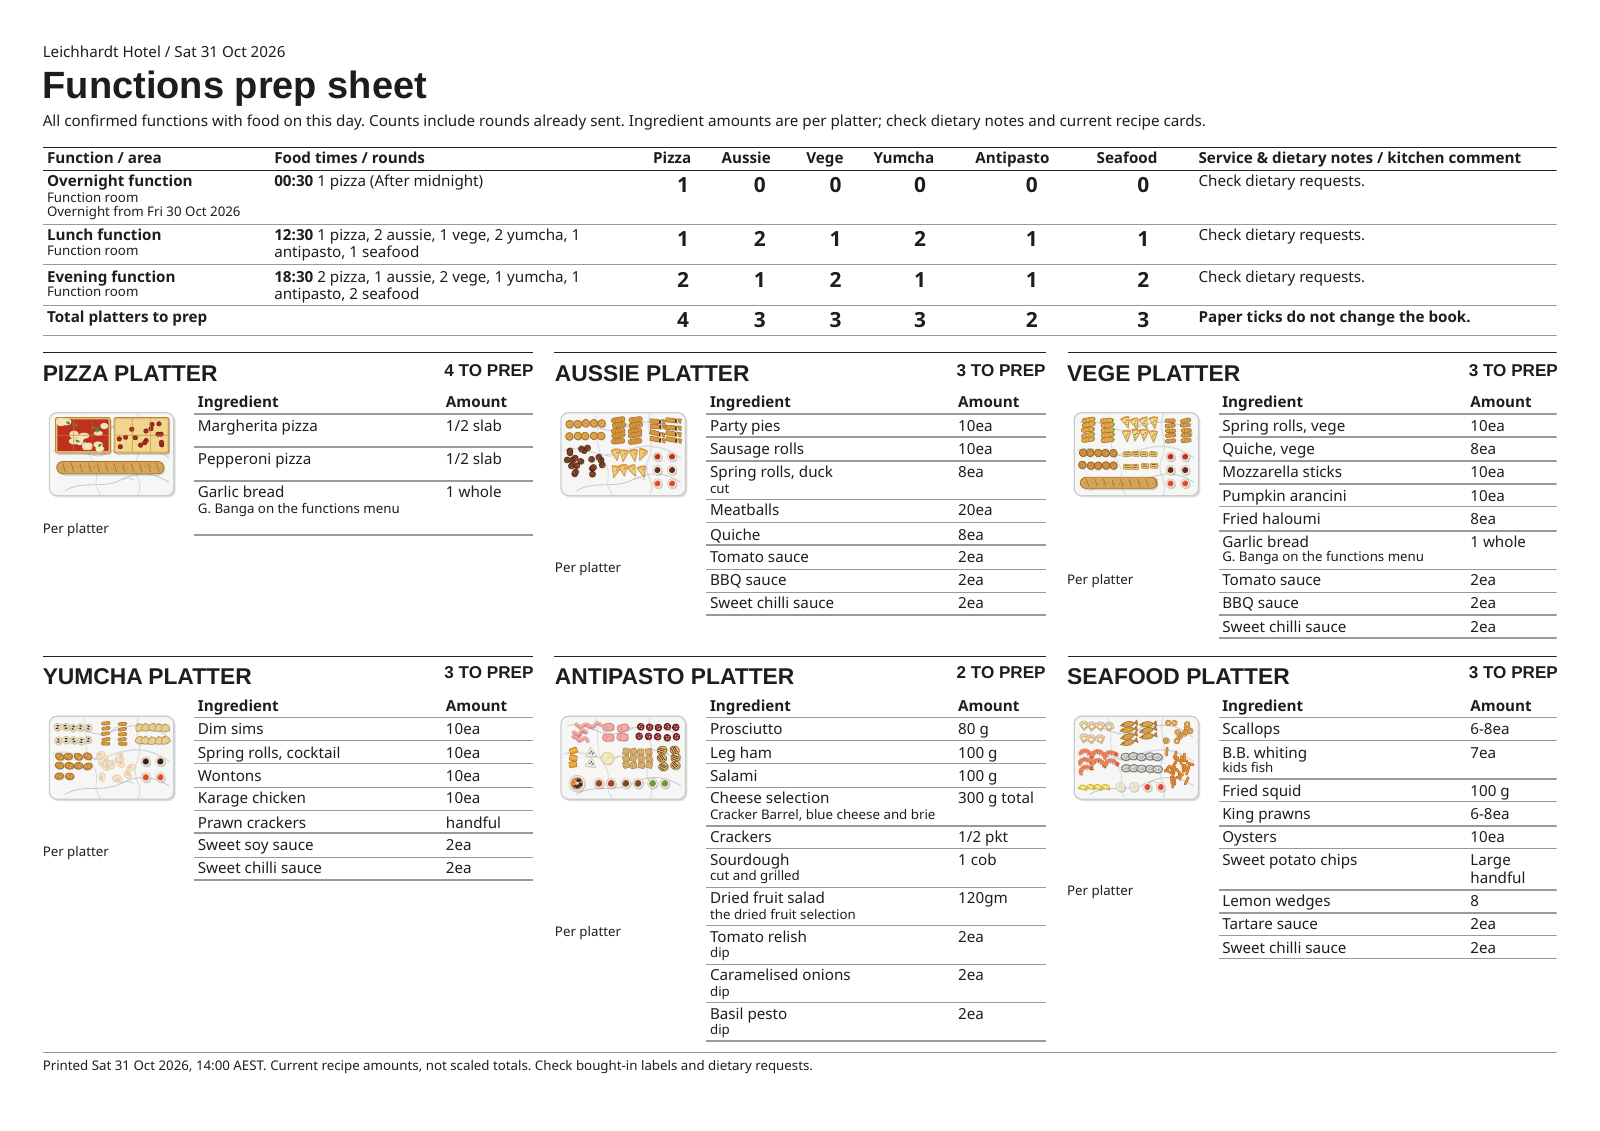
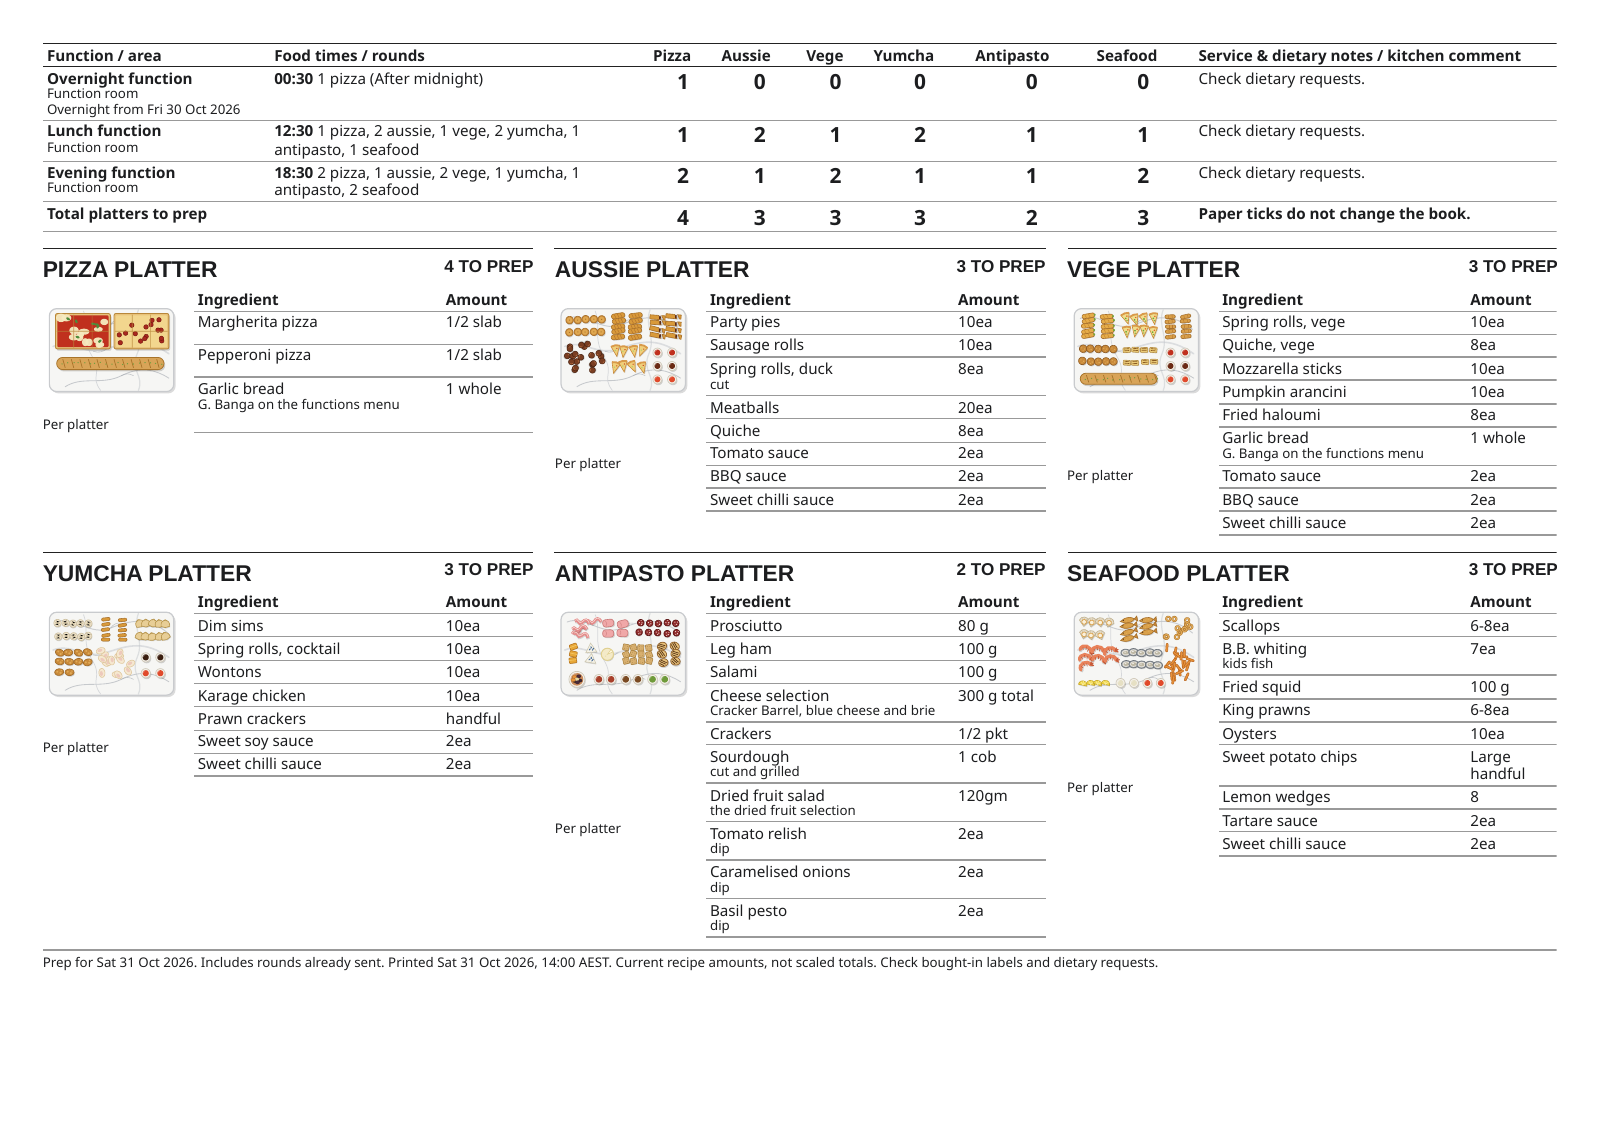
Remove the prep sheet header and keep its date in the footer

diff --git a/js/functions.js b/js/functions.js
@@ -740,8 +740,7 @@
       });
       counts.push(byRecipe);
     });
-    var out = '<article class="fn-prep-paper"><header><p>Leichhardt Hotel / ' + esc(printDate(opts.day)) + '</p><h1>Functions prep sheet</h1>' +
-      '<p>All confirmed functions with food on this day. Counts include rounds already sent. Ingredient amounts are per platter; check dietary notes and current recipe cards.</p></header>';
+    var out = '<article class="fn-prep-paper">';
     if (opts.source) out += '<p class="fn-prep-warning">' + esc(opts.source) + '</p>';
     out += '<table class="fn-prep-overview"><thead><tr><th scope="col">Function / area</th><th scope="col">Food times / rounds</th>' + cards.map(function (c) { return '<th scope="col">' + esc(short(c.name)) + '</th>'; }).join('') + '<th scope="col">Service &amp; dietary notes / kitchen comment</th></tr></thead><tbody>';
     list.forEach(function (f, i) {
@@ -768,7 +767,7 @@
           return '<tr><td>' + esc(ing.name) + (ing.note ? '<small>' + esc(ing.note) + '</small>' : '') + '</td><td>' + esc(ing.q || 'To come') + '</td></tr>';
         }).join('') + '</tbody></table>' : '<p>Recipe missing from the book. Check before prep.</p>') + '</section>';
     }).join('');
-    return out + '</div><footer>Printed ' + esc(printStamp(printed)) + '. Current recipe amounts, not scaled totals. Check bought-in labels and dietary requests.</footer></article>';
+    return out + '</div><footer>Prep for ' + esc(printDate(opts.day)) + '. Includes rounds already sent. Printed ' + esc(printStamp(printed)) + '. Current recipe amounts, not scaled totals. Check bought-in labels and dietary requests.</footer></article>';
   }
   function printSheet(f, opts, printed) {
     var R = f.rounds || [], L = f.lines || [], draft = f.status !== 'confirmed' || opts.unsaved;

diff --git a/tests/function-prep-print.test.js b/tests/function-prep-print.test.js
@@ -46,6 +46,7 @@ async function pdf(p, filename) {
     const before = await p.evaluate(() => [window.__fake.bill.length, window.__fake.writes.length, JSON.stringify(window.__fake.dump())]);
     await print(p, today);
     let content = await p.$eval('#fn-print', el => el.textContent);
+    ok(!(await p.$('.fn-prep-paper header, .fn-prep-paper h1')) && /Prep for/.test(content), 'no title or introductory header; the selected prep date stays in the footer');
     const rows = await p.$$eval('.fn-prep-overview tbody tr', els => els.map(el => el.textContent));
     ok(rows.length === 3 && /Overnight function/.test(rows[0]) && /Lunch function/.test(rows[1]) && /Evening function/.test(rows[2]), 'one overview includes every confirmed function in food-time order, even lunch already finished');
     ok(!/Tomorrow function|Cancelled function|Draft function|23:30/.test(content), 'only this day prints: no drafts, cancellations, tomorrow or yesterday rounds');

diff --git a/css/app.css b/css/app.css
@@ -2481,8 +2481,6 @@ input:is([type="date"], [type="time"]):disabled, input:is([type="date"], [type="
 @media print {
   body.fn-printing #fn-print.fn-prep-print { page: fn-prep-sheet; padding: 0; font: 8pt/1.15 var(--body); }
   #fn-print .fn-prep-paper { overflow-wrap: anywhere; }
-  #fn-print .fn-prep-paper h1 { font-size: 20pt; margin: 1mm 0; }
-  #fn-print .fn-prep-paper header { margin-bottom: 3mm; }
   #fn-print .fn-prep-paper table { width: 100%; border-collapse: collapse; font-size: inherit; }
   #fn-print .fn-prep-paper th, #fn-print .fn-prep-paper td { padding: 0.4mm 0.8mm; border-bottom: 0.4pt solid #999; text-align: left; vertical-align: top; }
   #fn-print .fn-prep-paper thead { display: table-header-group; }

diff --git a/README.md b/README.md
@@ -640,7 +640,7 @@ Asked for by the head chef: the book lays out and labels the plate by itself, an
 
 - **Quick cancellation and access (25 Oct 2026).** A confirmed function has Cancel function on the kitchen Functions page, its sheet and the managers' list/form. It acts on the saved booking with one click, without silently saving form edits. Sous chefs, the head chef, function managers and the verified admin can cancel. Editing and booking contacts still require the existing Functions tick. Undo is the same person's latest cancellation for two minutes, with no intervening change. The latest version is read on the tap, and cancellation, immutable history, prep removal and order corrections save together. Failed reads/saves do not announce success. Admin People now calls the existing checkbox Create/edit functions: tick it beside a person and save; their current role is kept. No named person is automatically granted access by a release. See `docs/function-cancellation.md` and `tests/function-cancel.test.js`.
 
-- **Print prep sheet (31 Oct 2026).** Functions has a Print prep sheet button for Today and each upcoming date. Service View offers today's copy too. One combined A4 landscape cheat sheet shows all confirmed functions for that day, their food times, platter quantities, dietary notes and daily totals. Every platter card follows once with its drawing and per-platter ingredient table. Overnight counts include only that day's rounds. The normal six-platter, three-function example fits one page; long material continues without clipping. No extra reads or writes. See `docs/function-printing.md`.
+- **Print prep sheet (31 Oct 2026).** Functions has a Print prep sheet button for Today and each upcoming date. Service View offers today's copy too. One combined A4 landscape cheat sheet, with no title header and the date in its footer, shows all confirmed functions for that day, their food times, platter quantities, dietary notes and daily totals. Every platter card follows once with its drawing and per-platter ingredient table. Overnight counts include only that day's rounds. The normal six-platter, three-function example fits one page; long material continues without clipping. No extra reads or writes. See `docs/function-printing.md`.
 - **Print function / Print run sheet (25 Oct 2026, Layout 2 approved).** Everyone with the kitchen PIN can print a function from its kitchen sheet, including the popup, or print today's confirmed functions from Service View. The Create Functions form and confirmation review also offer Print function for the people who already have permission to open them. It prints the current input without saving or confirming; unsaved copies say Draft / not saved. A4 portrait, large round times, each round's platter quantities, sent ticks, total booked, service and dietary notes, kitchen comment, version and Queensland print time. Every round is included, even if sent or outside the next-hour screen. Overnight functions retain the next-day labels. Drafts and cancelled functions stay out of the day run sheet; an individual cancelled copy says Do not send. Long bookings continue onto more pages at a readable size. Contacts stay off the paper. Printing uses only the records already loaded, with a saved-copy warning if offline, and adds no database reads or writes. Cancelling the dialog keeps the current page and form. See `docs/function-printing.md` and `tests/function-print.test.js`.
 A function manager enters a function once; the kitchen sees exactly what goes out and when.
 

diff --git a/docs/function-printing.md b/docs/function-printing.md
@@ -33,7 +33,7 @@ Revert the feature pull request on a fresh branch and redeploy Pages. No saved d
 
 Kuschi requested one cheat sheet with all functions at a glance, rather than one sheet per function. **Print prep sheet** sits under Today and each upcoming date on Functions (`#/fn`), and beside Print run sheet in Service View (`#/fn/now`). Each button prints its labelled day, not the whole upcoming fortnight. Empty days have a disabled button.
 
-The A4 landscape copy starts with one table of every confirmed function for that day: name, area, food times, platter counts by type, service and dietary notes, and kitchen comment. It includes completed functions and already-sent rounds so it remains a full daily prep reference. Overnight functions contribute only rounds on the selected day. Undated rounds belong to the booking date and say TBC. Drafts and cancellations are excluded. Totals add the selected day's rounds, not every round of an overnight booking.
+The A4 landscape copy has no title or introductory header, as requested by Kuschi. Its prep date is in the footer. It starts with one table of every confirmed function for that day: name, area, food times, platter counts by type, service and dietary notes, and kitchen comment. It includes completed functions and already-sent rounds so it remains a full daily prep reference. Overnight functions contribute only rounds on the selected day. Undated rounds belong to the booking date and say TBC. Drafts and cancellations are excluded. Totals add the selected day's rounds, not every round of an overnight booking.
 
 The platter references follow in three columns: every Functions platter in the current book, plus any booked recipe no longer in the catalogue. Each appears once with its current drawing, ingredients, per-platter amounts, ingredient notes, yield and total platters to prep. Zero-booked platters stay visible as references. Amounts are not multiplied or inferred. Missing recipes and drawings say so. Square-bracket amounts stay unconfirmed. This is a prep reference; consult the recipe cards and bought-in labels for allergen checks.
 
